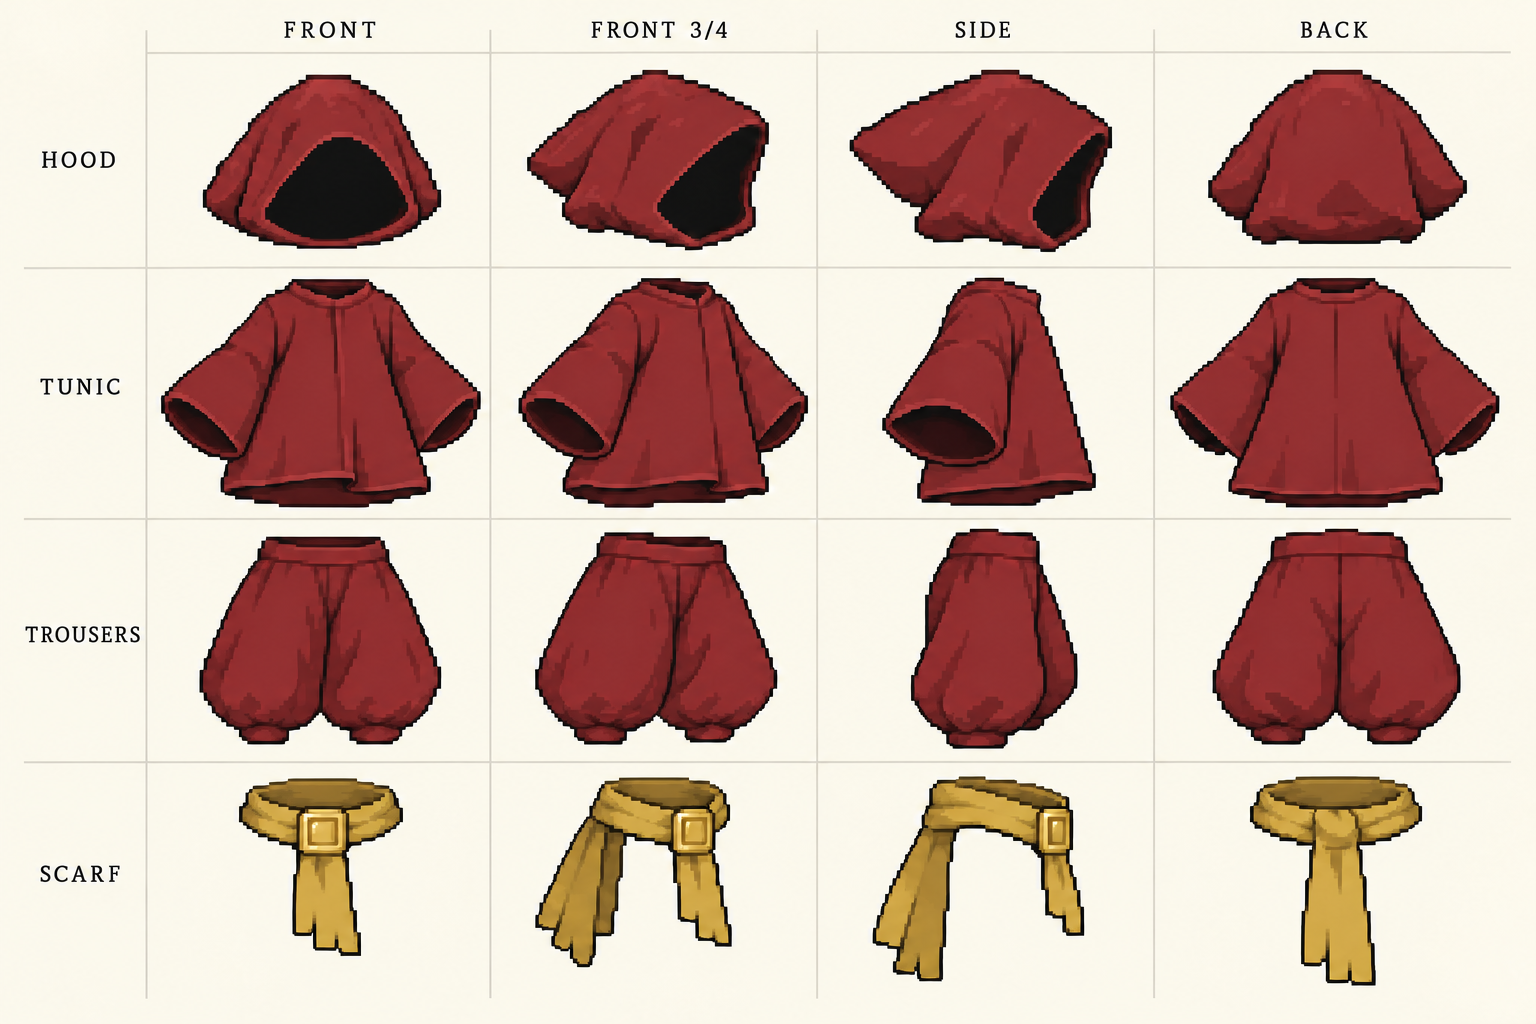
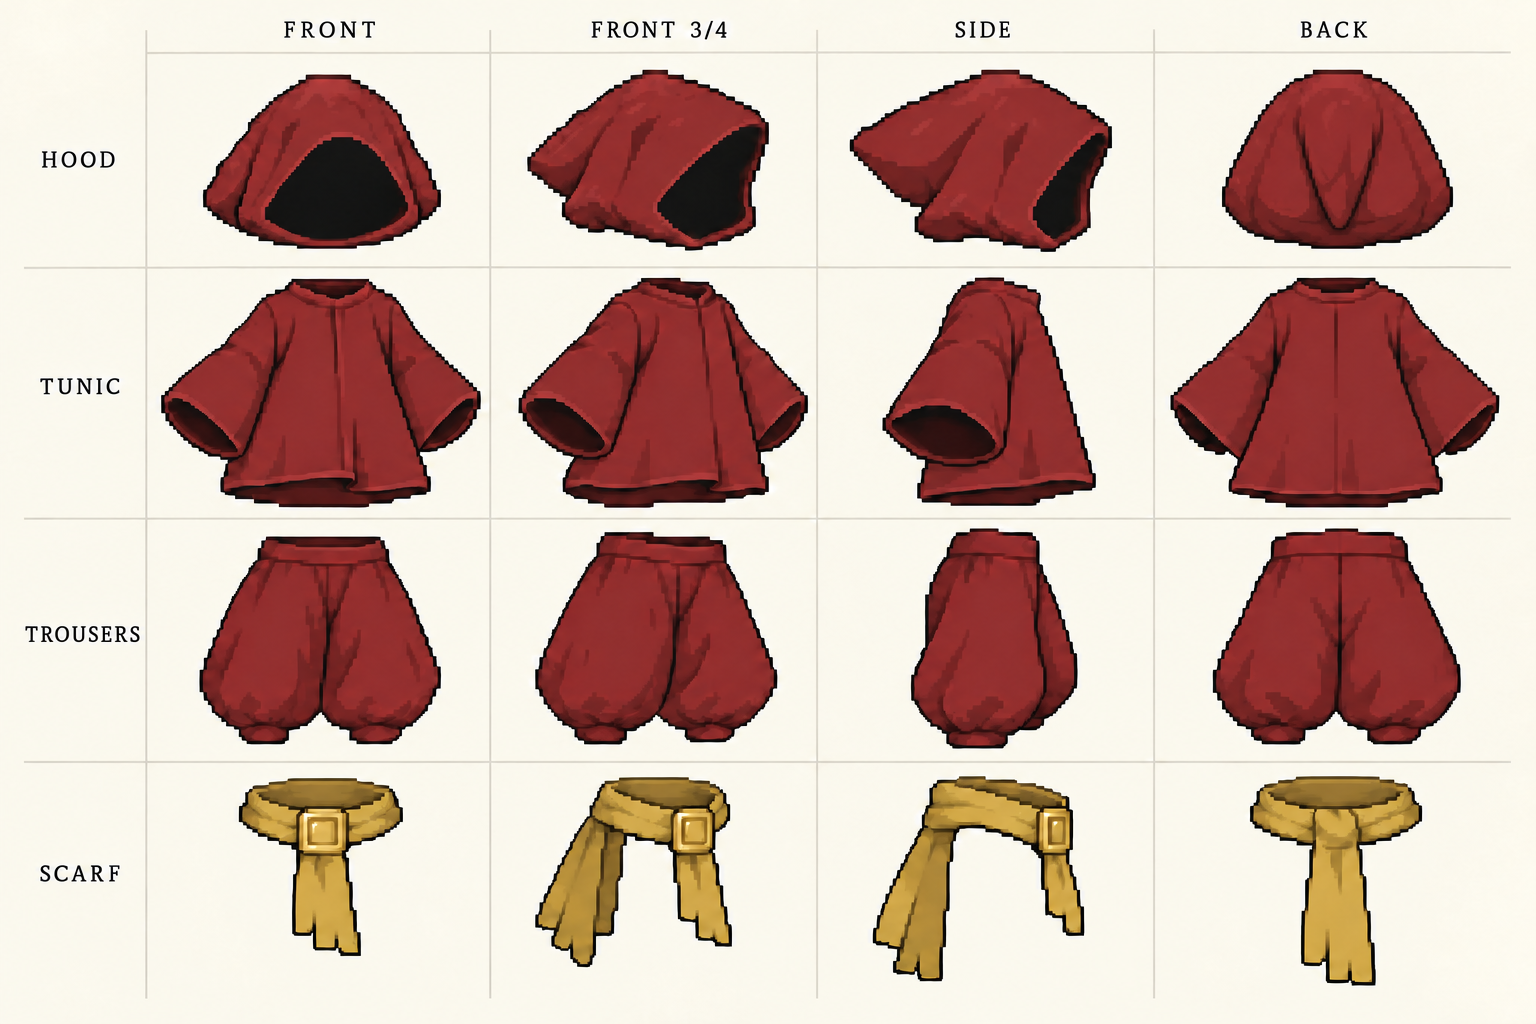
Correct B rear hood to one centered tip

diff --git a/assets/characters/ink-hero-b/pixel-design/README.md b/assets/characters/ink-hero-b/pixel-design/README.md
@@ -1,6 +1,6 @@
 # B안 픽셀 디자인 · 다각도와 의상 파츠
 
-선택한 B안의 둥근 두건, 넓은 소매, 짧고 여유 있는 상의와 통 넓은 바지를 유지했습니다. 검은 어깨 장식은 없습니다.
+선택한 B안의 둥근 두건, 넓은 소매, 짧고 여유 있는 상의와 통 넓은 바지를 유지했습니다. 검은 어깨 장식은 없습니다. 후드 끝은 뒤통수 중앙에 하나만 내려오는 구조이며, 후면과 뒤 사선의 귀처럼 갈라졌던 형태를 수정했습니다.
 
 ## 전체 캐릭터
 
